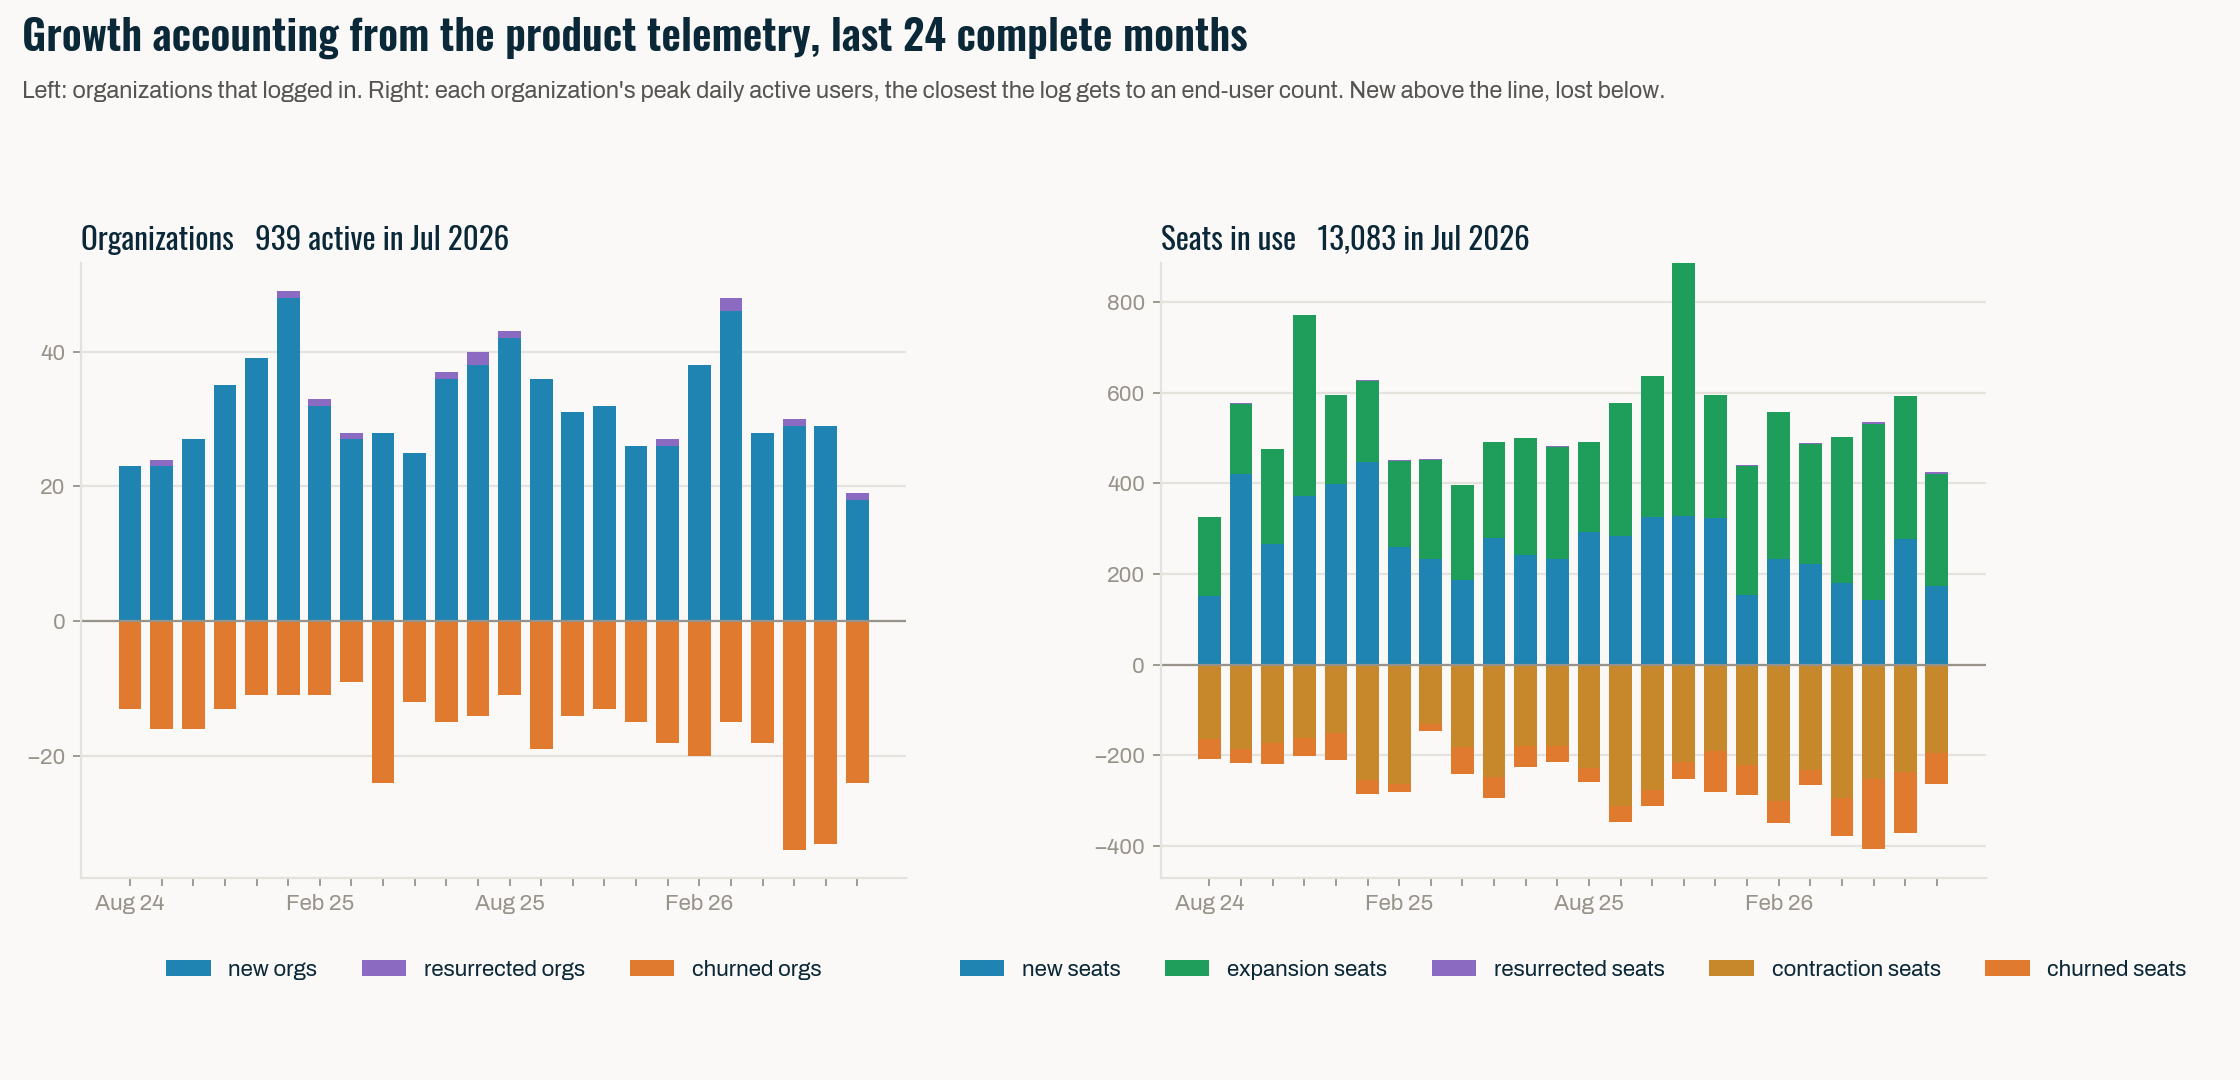
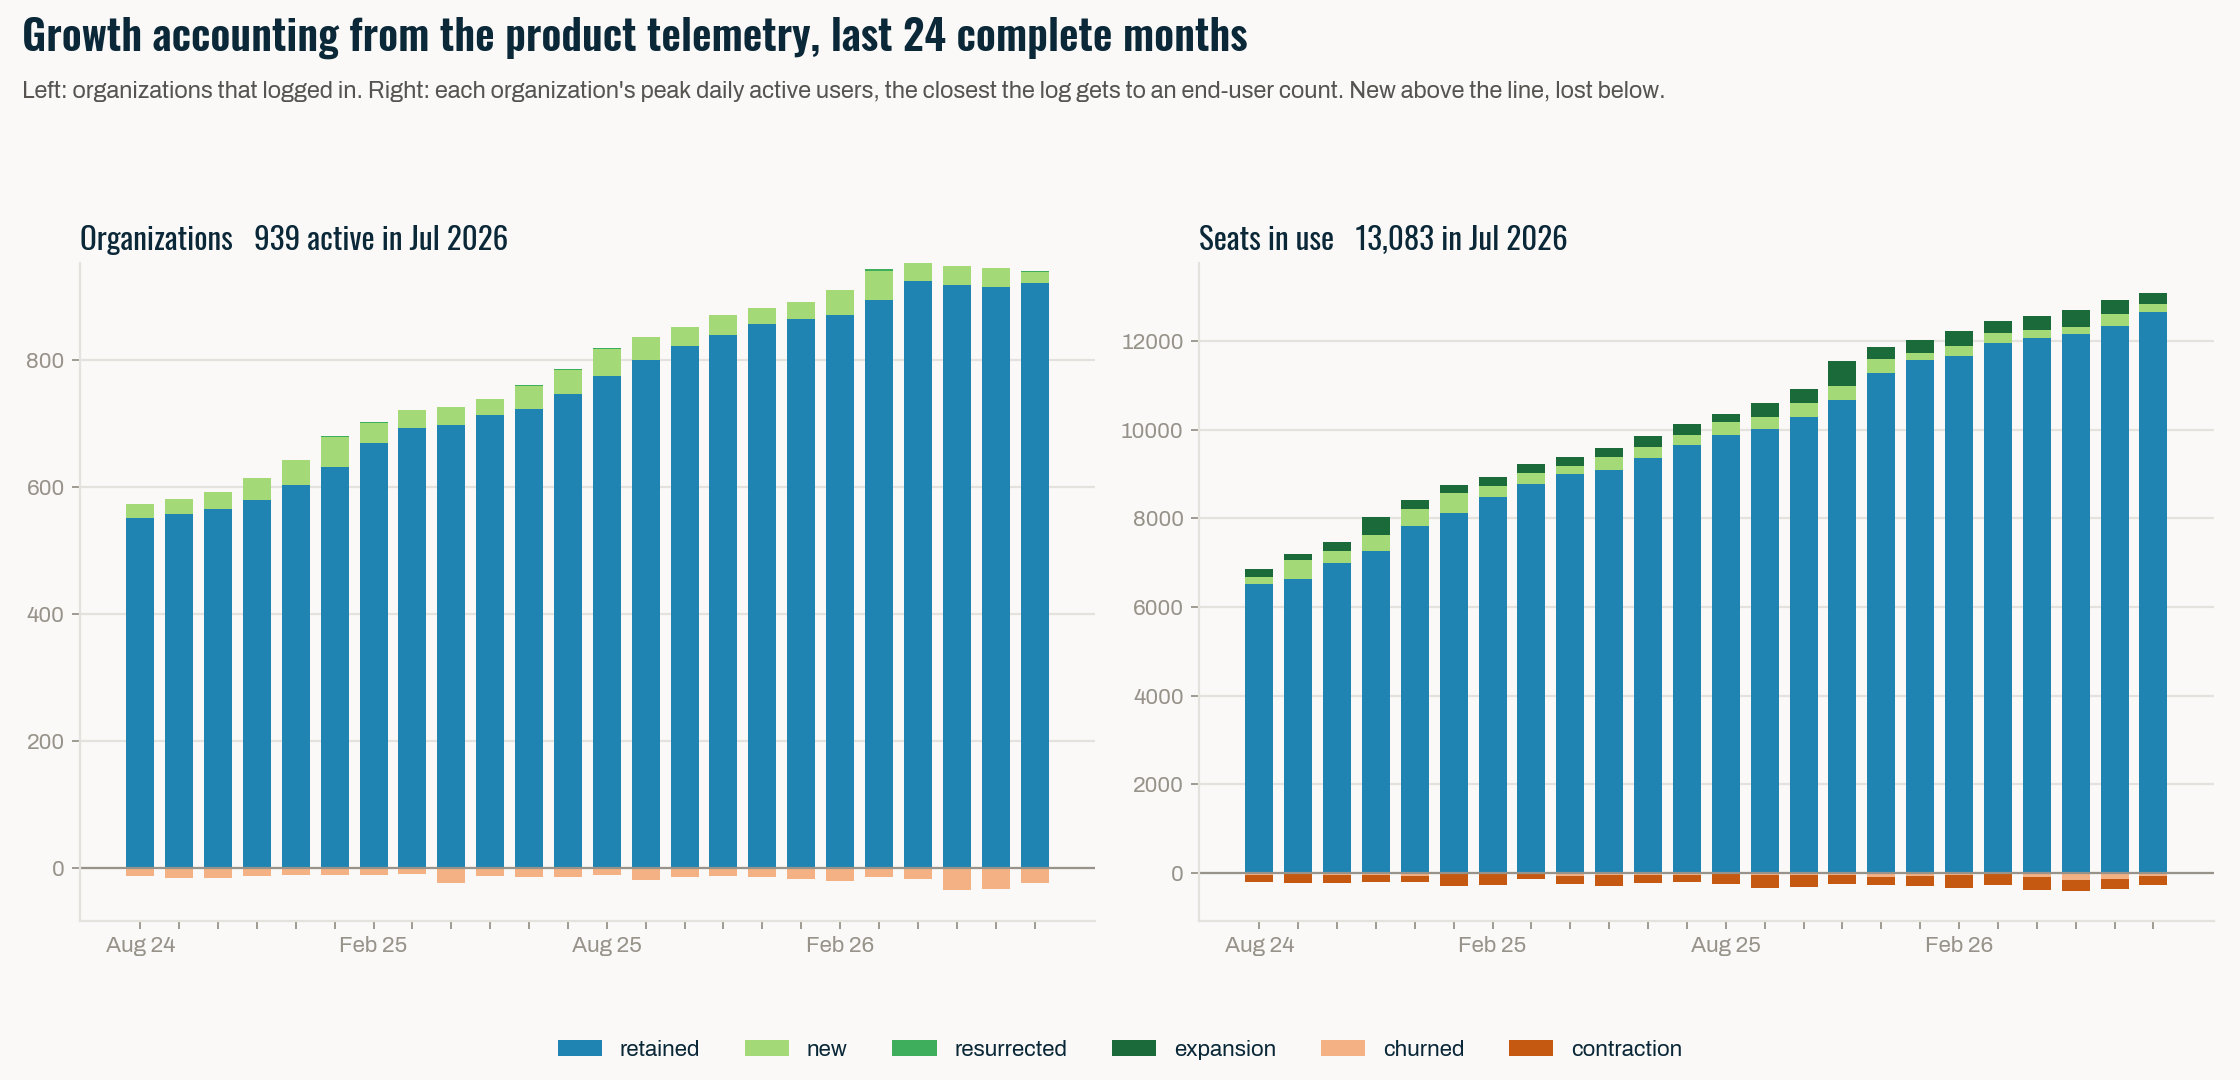
Draw slide charts at the slide's own box, add retained to every growth accounting stack
BARE mode renders each chart at 12.1 by 4.85 inches, the area under a slide title
and subtitle, so nothing is scaled after rendering and text keeps its size. Growth
accounting stacks carry retained at the base with David's colors: retained medium
blue, new light green, resurrected medium green, expansion dark green, churn light
orange, contraction dark orange. Legends move to figure level so they no longer
squeeze the panels.

diff --git a/audit/charts.py b/audit/charts.py
@@ -25,8 +25,11 @@ if len(sys.argv) < 2 or not (REPO / sys.argv[1]).is_dir():
     sys.exit("usage: python audit/charts.py <company-dir>")
 COMPANY = REPO / sys.argv[1]
 OUT = COMPANY / "out"
-CHARTS = COMPANY / "charts"
-CHARTS.mkdir(exist_ok=True)
+# BARE=1 renders the same charts without their titles and subtitles, into charts/bare/, for
+# slides where the slide title is the sentence and the chart should not repeat it.
+BARE = os.environ.get("BARE") == "1"
+CHARTS = COMPANY / "charts" / ("bare" if BARE else "")
+CHARTS.mkdir(parents=True, exist_ok=True)
 
 # ------------------------------------------------------------------ palette (validated)
 SURFACE = "#FAF9F7"
@@ -35,6 +38,10 @@ INK2 = "#565350"
 MUTED = "#97928A"
 GRID = "#E4E2DD"
 BLUE, ORANGE, VIOLET, GREEN = "#1F84B2", "#E07A2F", "#8A6BC1", "#1E9E5A"
+# Growth accounting: retained medium blue; new light green, resurrected medium green, expansion
+# dark green; churn light orange, contraction dark orange.
+GA = {"retained": "#1F84B2", "new": "#A3D977", "resurrected": "#3FAE5C", "expansion": "#1B6B3A",
+      "churned": "#F4B183", "contraction": "#C65911"}
 BLUE_DEEP = "#1A658F"
 CONTRACT = {"annual": BLUE, "monthly": ORANGE, "usage": VIOLET, "(unmatched)": MUTED}
 TIER = {"Enterprise": BLUE, "Growth": VIOLET, "Starter": ORANGE, "(unmatched)": MUTED}
@@ -67,23 +74,31 @@ plt.rcParams.update({
 def read(name):
     return pd.read_csv(OUT / f"{name}.csv")
 
+SLIDE_BOX = (12.1, 4.85)          # inches: the chart area under a slide title and subtitle
+
 def fig(w=12, h=6.75):
+    if BARE:
+        w, h = SLIDE_BOX
     return plt.figure(figsize=(w, h), dpi=160)
 
 import textwrap
 
 def title(ax, text, sub=None):
+    if BARE:
+        return
     f = ax.figure
     f.suptitle(text, fontfamily=DISPLAY, fontsize=19, fontweight="semibold", x=0.01, y=0.985, ha="left", va="top", color=INK)
     if sub:
         f.text(0.01, 0.925, textwrap.fill(sub, 150), fontsize=10.5, color=INK2, va="top", linespacing=1.4)
 
 def head(f, text, sub):
+    if BARE:
+        return
     f.suptitle(text, fontfamily=DISPLAY, fontsize=19, fontweight="semibold", x=0.01, y=0.985, ha="left", va="top", color=INK)
     f.text(0.01, 0.925, textwrap.fill(sub, 170), fontsize=10.5, color=INK2, va="top", linespacing=1.4)
 
 def finish(name):
-    plt.tight_layout(rect=(0, 0, 1, 0.88))
+    plt.tight_layout(rect=(0, 0, 1, 1) if BARE else (0, 0, 1, 0.88))
     p = CHARTS / f"{name}.png"
     plt.savefig(p, dpi=160)
     plt.close()
@@ -102,7 +117,8 @@ def months_last(df, n=24, col="month"):
     return df[df[col] >= df[col].max() - pd.DateOffset(months=n - 1)]
 
 def stacked_ga(ax, d, pos, neg, colors, xcol="month"):
-    """Stacked growth-accounting columns: positives up from zero, negatives down."""
+    """Stacked growth-accounting columns: retained at the base, then new, resurrected and
+    expansion up from it; churn and contraction down from zero."""
     x = range(len(d))
     bottom = pd.Series(0.0, index=d.index)
     for c in pos:
@@ -186,19 +202,20 @@ def chart_rev_ga_by_contract():
     d["month"] = pd.to_datetime(d["month"])
     d = d[d["month"] < d["month"].max()]
     d = d[d["month"] >= d["month"].max() - pd.DateOffset(months=23)]
-    colors = {"new_rev": BLUE, "expansion_rev": GREEN, "resurrected_rev": VIOLET, "contraction_rev": "#C7882B", "churned_rev": ORANGE}
+    colors = {"retained_rev": GA["retained"], "new_rev": GA["new"], "resurrected_rev": GA["resurrected"], "expansion_rev": GA["expansion"],
+              "churned_rev": GA["churned"], "contraction_rev": GA["contraction"]}
     f = fig(14, 7)
     for i, ct in enumerate(["annual", "monthly", "usage"]):
         ax = f.add_subplot(1, 3, i + 1)
         s = d[d.contract_type == ct].reset_index(drop=True)
-        stacked_ga(ax, s, ["new_rev", "expansion_rev", "resurrected_rev"], ["contraction_rev", "churned_rev"], colors)
+        stacked_ga(ax, s, ["retained_rev", "new_rev", "resurrected_rev", "expansion_rev"], ["churned_rev", "contraction_rev"], colors)
         ax.yaxis.set_major_formatter(FuncFormatter(money))
         qr = (s["new_rev"].fillna(0) + s["expansion_rev"].fillna(0) + s["resurrected_rev"].fillna(0)).sum() / -(s["churned_rev"].fillna(0) + s["contraction_rev"].fillna(0)).sum()
         ax.set_title(f"{ct.title()} contracts   quick ratio {qr:.1f}", fontfamily=DISPLAY, fontsize=14, loc="left", color=INK)
-        if i == 1:
-            ax.legend(loc="upper center", bbox_to_anchor=(0.5, -0.1), ncol=5, frameon=False)
+    hl, ll = ax.get_legend_handles_labels()
+    f.legend(hl, [l.replace(" rev", "") for l in ll], loc="lower center", ncol=6, frameon=False)
     head(f, "Revenue growth accounting, by contract type. Recognized basis, last 24 complete months", "New, expansion and resurrected revenue above the line; contraction and churn below. Annual revenue only moves at renewal; usage revenue moves every month.")
-    plt.tight_layout(rect=(0, 0.04, 1, 0.88))
+    plt.tight_layout(rect=(0, 0.09, 1, 1) if BARE else (0, 0.09, 1, 0.88))
     p = CHARTS / "04_rev_ga_by_contract.png"; plt.savefig(p, dpi=160); plt.close(); print("  wrote", p.name)
 
 def chart_nrr_by_contract():
@@ -247,7 +264,7 @@ def chart_cohort_heatmap():
         for j in range(vals.shape[1]):
             v = vals[i, j]
             if not np.isnan(v):
-                ax.text(j, i, f"{v:.0f}", ha="center", va="center", fontsize=9.5, color=SURFACE if v > 72 else INK)
+                ax.text(j, i, f"{v:.0f}", ha="center", va="center", fontsize=8 if BARE else 9.5, color=SURFACE if v > 72 else INK)
     ax.set_xticks(range(len(cols))); ax.set_xticklabels([f"m{int(c[1:])}" for c in cols])
     ax.set_yticks(range(len(m))); ax.set_yticklabels([pd.to_datetime(q).strftime("%Y Q") + str((pd.to_datetime(q).month - 1) // 3 + 1) for q in m.index])
     ax.grid(False); ax.set_xlabel("Months since first revenue")
@@ -280,16 +297,26 @@ def chart_org_and_seat_ga():
     s = months_last(read("04_user_growth_accounting__seat_ga_monthly"), 24).reset_index(drop=True)
     f = fig(14, 6.75)
     ax = f.add_subplot(1, 2, 1)
-    stacked_ga(ax, o, ["new_orgs", "resurrected_orgs"], ["churned_orgs"], {"new_orgs": BLUE, "resurrected_orgs": VIOLET, "churned_orgs": ORANGE})
+    stacked_ga(ax, o, ["retained_orgs", "new_orgs", "resurrected_orgs"], ["churned_orgs"],
+               {"retained_orgs": GA["retained"], "new_orgs": GA["new"], "resurrected_orgs": GA["resurrected"], "churned_orgs": GA["churned"]})
     ax.set_title(f"Organizations   {int(o['active_orgs'].iloc[-1]):,} active in {o['month'].iloc[-1]:%b %Y}", fontfamily=DISPLAY, fontsize=14, loc="left", color=INK)
-    ax.legend(loc="upper center", bbox_to_anchor=(0.5, -0.1), ncol=3)
+    h1, l1 = ax.get_legend_handles_labels()
     ax = f.add_subplot(1, 2, 2)
-    stacked_ga(ax, s, ["new_seats", "expansion_seats", "resurrected_seats"], ["contraction_seats", "churned_seats"],
-               {"new_seats": BLUE, "expansion_seats": GREEN, "resurrected_seats": VIOLET, "contraction_seats": "#C7882B", "churned_seats": ORANGE})
+    stacked_ga(ax, s, ["retained_seats", "new_seats", "resurrected_seats", "expansion_seats"], ["churned_seats", "contraction_seats"],
+               {"retained_seats": GA["retained"], "new_seats": GA["new"], "resurrected_seats": GA["resurrected"], "expansion_seats": GA["expansion"],
+                "churned_seats": GA["churned"], "contraction_seats": GA["contraction"]})
     ax.set_title(f"Seats in use   {int(s['seats'].iloc[-1]):,} in {s['month'].iloc[-1]:%b %Y}", fontfamily=DISPLAY, fontsize=14, loc="left", color=INK)
-    ax.legend(loc="upper center", bbox_to_anchor=(0.5, -0.1), ncol=5)
+    h2, l2 = ax.get_legend_handles_labels()
+    seen, hh, lab = set(), [], []
+    for h, l in list(zip(h2, l2)) + list(zip(h1, l1)):
+        g = l.split()[0]
+        if g not in seen:
+            seen.add(g); hh.append(h); lab.append(g)
+    order = ["retained", "new", "resurrected", "expansion", "churned", "contraction"]
+    pairs = sorted(zip(hh, lab), key=lambda t: order.index(t[1]))
+    f.legend([t[0] for t in pairs], [t[1] for t in pairs], loc="lower center", ncol=6, frameon=False)
     head(f, "Growth accounting from the product telemetry, last 24 complete months", "Left: organizations that logged in. Right: each organization's peak daily active users, the closest the log gets to an end-user count. New above the line, lost below.")
-    plt.tight_layout(rect=(0, 0.04, 1, 0.88))
+    plt.tight_layout(rect=(0, 0.09, 1, 1) if BARE else (0, 0.09, 1, 0.88))
     p = CHARTS / "09_org_and_seat_ga.png"; plt.savefig(p, dpi=160); plt.close(); print("  wrote", p.name)
 
 # ------------------------------------------------------------------ 6. CAC and payback
@@ -303,6 +330,8 @@ def chart_cac_payback():
     ax.plot(c["quarter"], c["cac_per_billing_customer"], color=BLUE, linewidth=2.2, marker="o", markersize=5, markeredgecolor=SURFACE, label="Spend per new billing customer")
     ax.plot(c["quarter"], c["cac_per_crm_account"], color=ORANGE, linewidth=2, marker="o", markersize=5, markeredgecolor=SURFACE, label="Spend per new CRM account")
     ax.yaxis.set_major_formatter(FuncFormatter(money)); ax.set_ylim(0, None); ax.legend(loc="lower right")
+    import matplotlib.dates as mdates
+    ax.xaxis.set_major_locator(mdates.MonthLocator(bymonth=(1, 7))); ax.xaxis.set_major_formatter(mdates.DateFormatter("%b %y"))
     ax.set_title("Cohort CAC, two denominators", fontfamily=DISPLAY, fontsize=14, loc="left", color=INK)
     ax = f.add_subplot(1, 2, 2)
     pb = p.dropna(subset=["payback_months"])
@@ -313,7 +342,7 @@ def chart_cac_payback():
     ax.grid(axis="x", visible=False); ax.set_ylabel("Months")
     ax.set_title("Payback, months to recover cohort CAC from recognized revenue", fontfamily=DISPLAY, fontsize=14, loc="left", color=INK)
     head(f, "What it costs to acquire a customer, and how long it takes to earn it back", "Marketing spend lagged one month over new customers in the quarter. The two denominators disagree by up to 65 percent; neither excludes the acquired books, because nothing in the files flags them.")
-    plt.tight_layout(rect=(0, 0.04, 1, 0.88))
+    plt.tight_layout(rect=(0, 0.09, 1, 1) if BARE else (0, 0.09, 1, 0.88))
     q = CHARTS / "10_cac_payback.png"; plt.savefig(q, dpi=160); plt.close(); print("  wrote", q.name)
 
 # ------------------------------------------------------------------ 7. mix shift
@@ -362,7 +391,7 @@ def chart_board_vs_systems():
     ax.yaxis.set_major_formatter(FuncFormatter(money)); ax.legend(loc="upper left"); ax.set_ylim(0, None)
     ax.set_title("Revenue: cash for 29 months, then recognized, and nothing says so", fontfamily=DISPLAY, fontsize=14, loc="left", color=INK)
     head(f, "The board pack against the systems it was built from", "Forty-six monthly packs, each assembled by hand from whatever the CRM said on the day. No month can be reproduced from any system.")
-    plt.tight_layout(rect=(0, 0.04, 1, 0.88))
+    plt.tight_layout(rect=(0, 0.09, 1, 1) if BARE else (0, 0.09, 1, 0.88))
     p = CHARTS / "12_board_vs_systems.png"; plt.savefig(p, dpi=160); plt.close(); print("  wrote", p.name)
 
 # ------------------------------------------------------------------ 9. the acquired books
